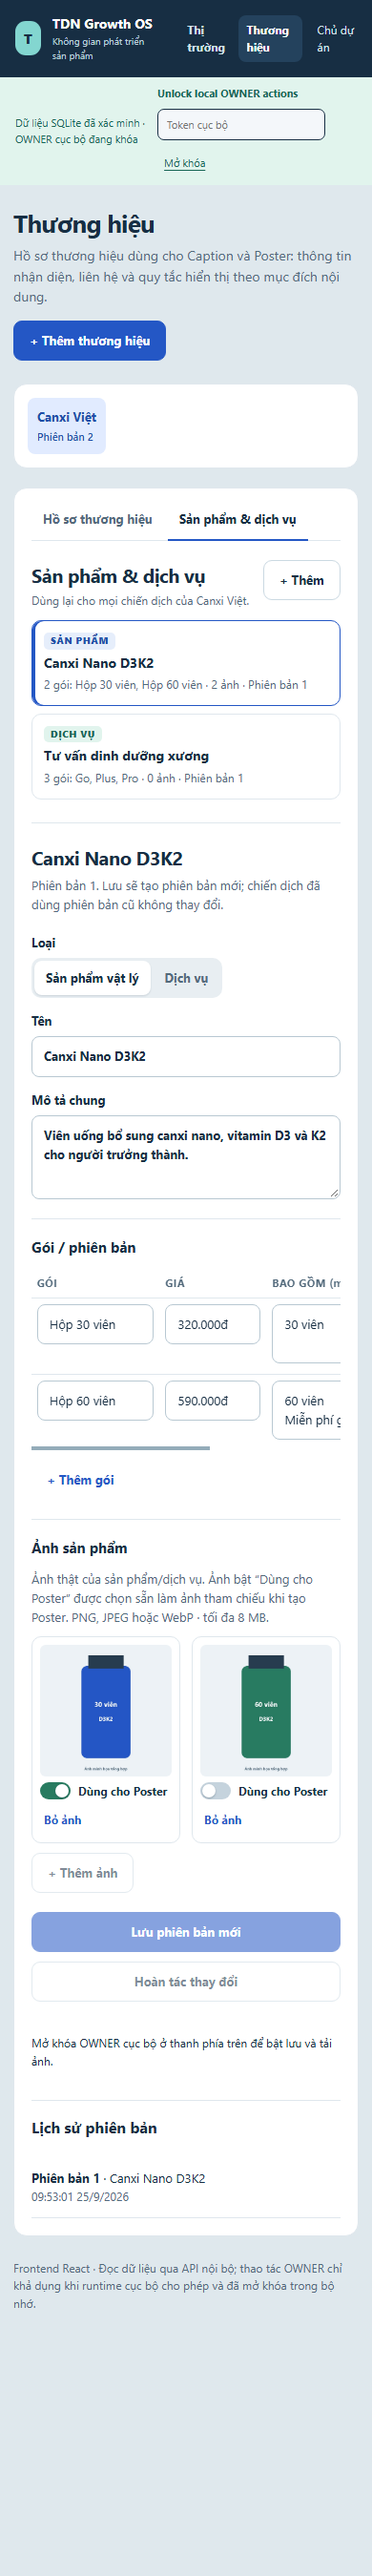
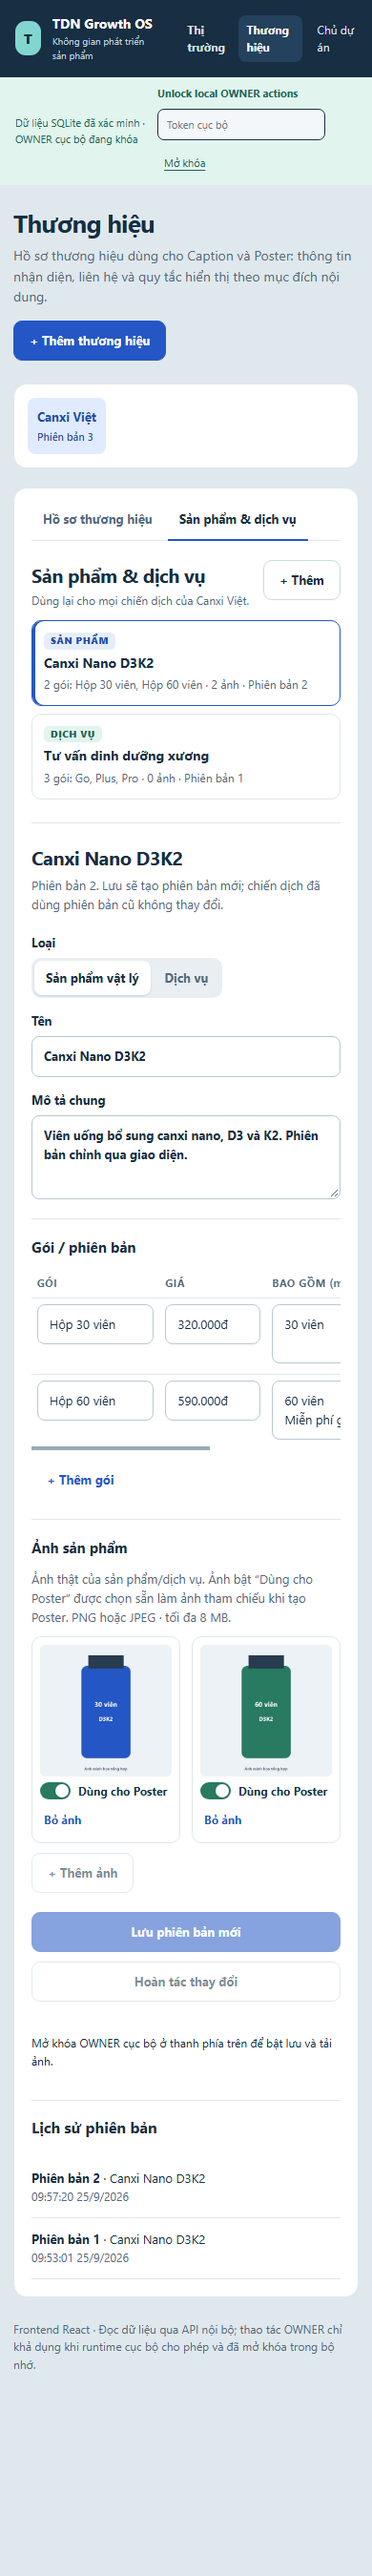
docs: record 048b upload-lifecycle corrections and refresh screenshots

diff --git a/docs/tasks/048b-content-catalog-media.md b/docs/tasks/048b-content-catalog-media.md
@@ -6,7 +6,7 @@ Owner/worktree: `feature/048b-content-catalog-media` (base `main` `76c21aa`)
 Goal: Second Content Studio slice (Task 047 row 048, reconciled in [`docs/content-studio-release.md`](../content-studio-release.md)). The OWNER keeps products and services per brand, with description, tiers (price text, inclusions) and real product photos, plus the brand logo. Every record is immutable, versioned and verified, and is reachable through the read/OWNER APIs and the React UI.
 Non-goals: Campaigns, prompt library, custom purpose tags, AI generation or editing, Poster reference assembly, image resizing or metadata stripping, delete/restore of catalog items, a general media library, deployment.
 Dependencies: Task 048 (brands), Task 047 §1–§3, ADR 0003.
-Owned paths: `migrations/0022_flow_content_catalog_media.sql`; `contracts/flow/content-catalog-item-*.schema.json`, `contracts/flow/content-brand-{revision-request,artifact}.schema.json` (optional logo), `contracts/api/content-api.schema.json`, `contracts/api/owner-content-brand-api.schema.json`, `contracts/api/owner-content-catalog-api.schema.json` (+ generated); `scripts/generate-foundation-contract.mjs` (list only); `src/modules/flow/content-{image,artifacts,media-service,catalog-service,brand-service}.ts`, `validation.ts`, `index.ts`; `src/api/content-api.ts`, `src/api/owner-http.ts`; `frontend/src/{routing.ts,App.tsx,BrandsPage.tsx,CatalogPanel.tsx,MediaUpload.tsx,catalog-data-source.ts,content-data-source.ts,draft-editor.ts,brand-editor.ts,styles.css}`; tests `tests/unit/content-image.test.ts`, `tests/helpers/content-images.ts`, `tests/integration/content-{catalog,catalog-api,brand,operator-app}.test.ts`, `frontend/tests/{content-catalog,brand-editor}.test.ts`; schema-version assertions 21 → 22 in `tests/integration/{sqlite-foundation,source-package-intake,shopee-file-research}.test.ts`; docs listed in the handoff.
+Owned paths: `migrations/0022_flow_content_catalog_media.sql`; `contracts/flow/content-catalog-item-*.schema.json`, `contracts/flow/content-brand-{revision-request,artifact}.schema.json` (optional logo), `contracts/api/content-api.schema.json`, `contracts/api/owner-content-brand-api.schema.json`, `contracts/api/owner-content-catalog-api.schema.json` (+ generated); `scripts/generate-foundation-contract.mjs` (list only); `src/modules/flow/content-{image,artifacts,media-service,catalog-service,brand-service}.ts`, `validation.ts`, `index.ts`; `src/api/content-api.ts`, `src/api/owner-http.ts`; `frontend/src/{routing.ts,App.tsx,BrandsPage.tsx,CatalogPanel.tsx,MediaUpload.tsx,media-upload-runner.ts,catalog-data-source.ts,content-data-source.ts,draft-editor.ts,brand-editor.ts,styles.css}`; tests `tests/unit/content-image.test.ts`, `tests/helpers/content-images.ts`, `tests/integration/content-{catalog,catalog-api,brand,operator-app}.test.ts`, `frontend/tests/{content-catalog,brand-editor,upload-lifecycle}.test.ts`; schema-version assertions 21 → 22 in `tests/integration/{sqlite-foundation,source-package-intake,shopee-file-research}.test.ts`; docs listed in the handoff.
 Minimum verification: `npm run check` green on Linux CI; locally, all new tests pass and there are no failures beyond the known Windows-only set.
 Escalate when: a change is needed outside the owned paths, or an existing assertion must be weakened.
 
@@ -135,3 +135,29 @@ Before anything is staged, every write verifies the brand history. That includes
    - Regression: with brand v1 tampered or missing, both logo and photo uploads return `500 integrity_error`, and media rows, manifests and artifact files stay unchanged. Other brands still accept uploads.
    - The regression failed before the fix (201).
 - **Suites after the corrections:** local frontend 79/79; backend 324/340 with the same 16 Windows-only failures. Linux CI evidence is in the handoff.
+
+## 8. Review corrections (independent review of `bf2da25`, 2026-09-25)
+
+1. **R1: an upload could land in the wrong editor.** An upload that finished after the user opened another item, a new item, another brand, or reopened the same item was merged into whichever draft was current.
+   - Fix: every editing session has an identity (`session` in `draft-editor.ts`), which is new whenever a different record or a new draft is opened. Upload callbacks are bound to the session current when the upload starts (`uploadCallbacks`). The reducer ignores results and upload lifecycle events from any other session. The same path serves demo uploads.
+2. **R2: Save could silently drop an in-flight upload.**
+   - Fix: running uploads are counted per session. Save (catalog and brand logo) is unavailable with “Đang tải ảnh lên. Chờ tải xong rồi lưu.” until they finish.
+   - Defensively, a result that still arrives during a save is deferred and applied once the save settles. When our own saved version reloads, it stays as a visible unsaved change: no conflict notice, and the submitted request is never changed.
+   - Exact-retry keys, immutable versions and conflict-draft behaviour are unchanged.
+- **Tests.** `frontend/tests/upload-lifecycle.test.ts` drives real deferred completions through `media-upload-runner.ts`, the same code `MediaUpload` uses, with the forms' callbacks. It covers:
+  - catalog: item A → item B, → new item, and A → B → A;
+  - brand logo: brand A → brand B;
+  - same-session merges with edits made meanwhile, across several files and one failure;
+  - a result arriving during a save, for both a successful and a failed save;
+  - Save disabled while uploading (catalog and brand);
+  - stale lifecycle events.
+
+  Six mutations were checked, and each one breaks a test: removing the session check, fixing the session number, dropping deferred results, dropping own-save continuation, and removing the catalog or brand Save blocker.
+- **Real UI.** Checked against a local operator on the synthetic database, with photo upload responses held open:
+  - Save was disabled while A's upload ran;
+  - releasing A's upload after opening B left B unchanged;
+  - B's own upload blocked Save, then added the photo and re-enabled Save.
+
+  Chromium's JPEG encoder output passed the server-side decode check.
+- **Screenshots** were recaptured from this build and now show the “PNG hoặc JPEG” copy.
+- **Suites.** Local frontend 85/85. Backend 324/340, with the same 16 Windows-only failures. Linux CI evidence is in the handoff.
